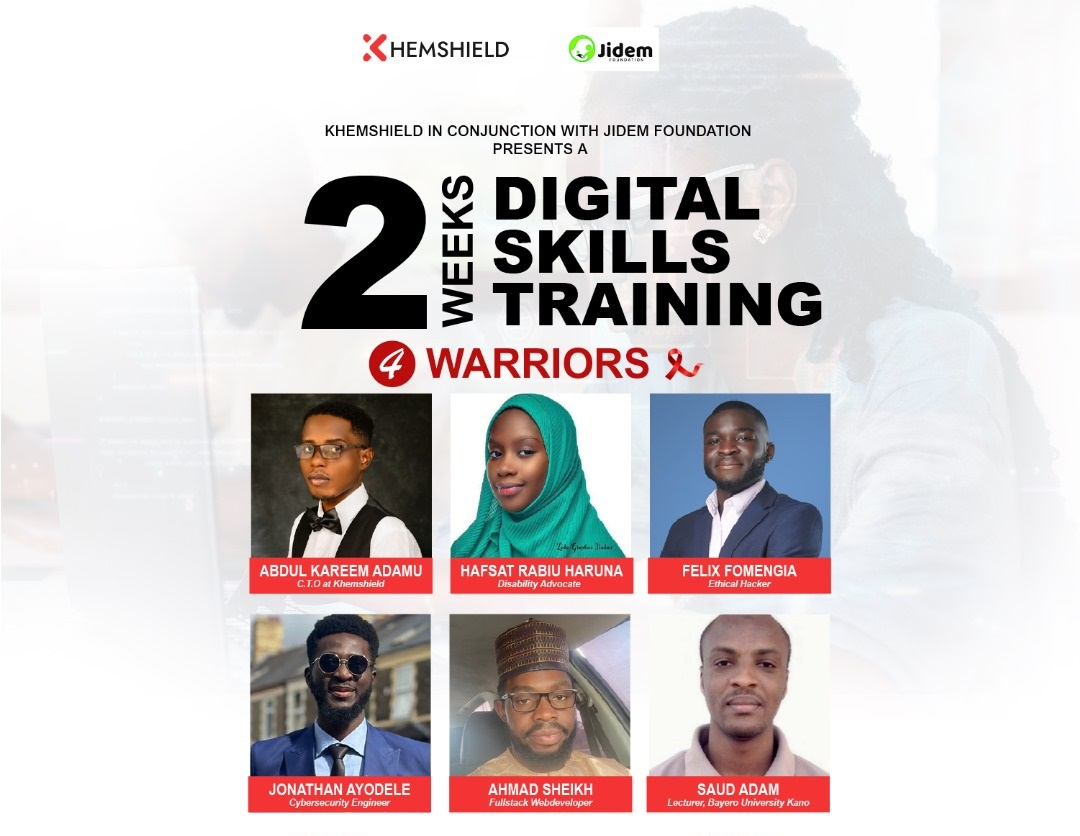
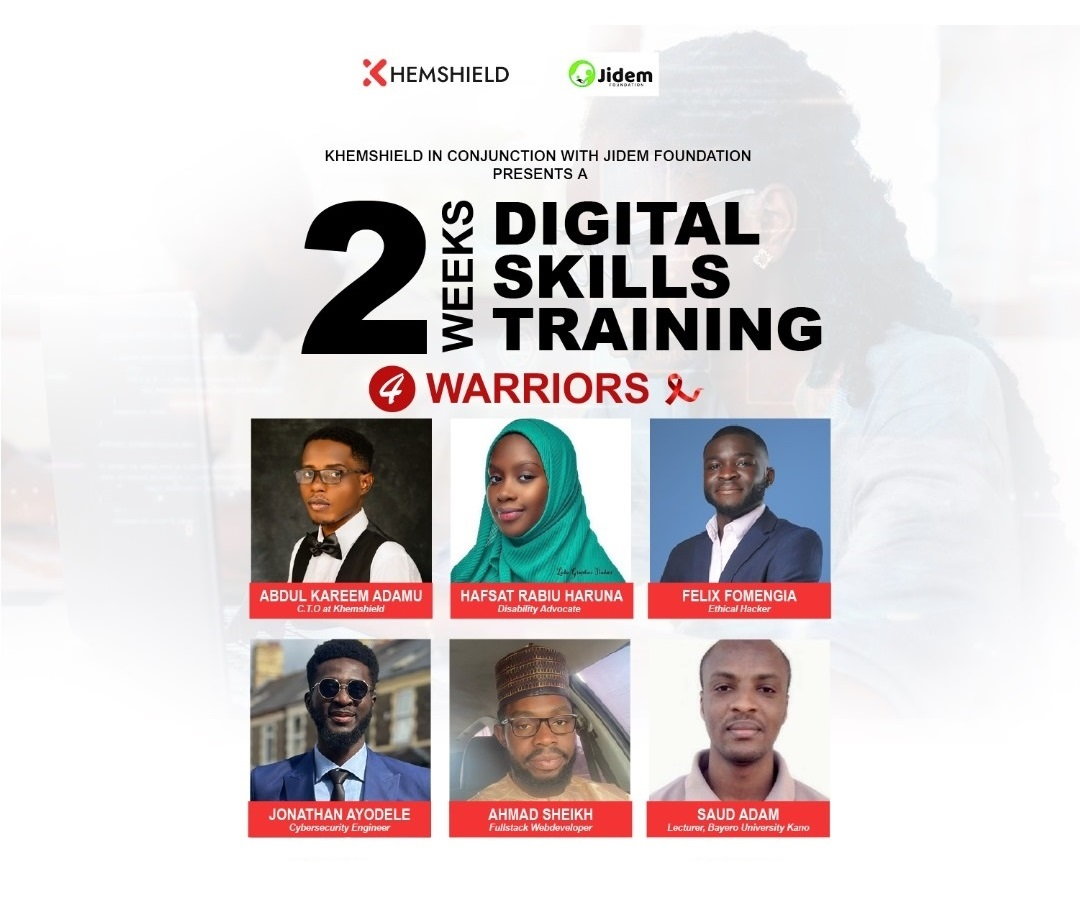
Fix image issue

diff --git a/app/components/Banners/EventBanner.tsx b/app/components/Banners/EventBanner.tsx
@@ -38,7 +38,8 @@ const EventBanner = () => {
         <Image
           src={eventBanner}
           alt="Banner Event"
-          className="rounded-xl w-full h-[500px] object-cover"
+          className="rounded-xl w-full object-cover
+          lg:h-[460px] "
         />
       </section>
     </section>
